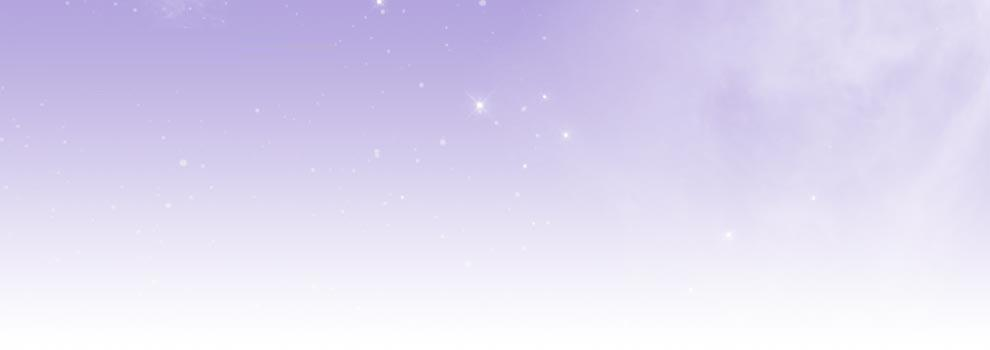
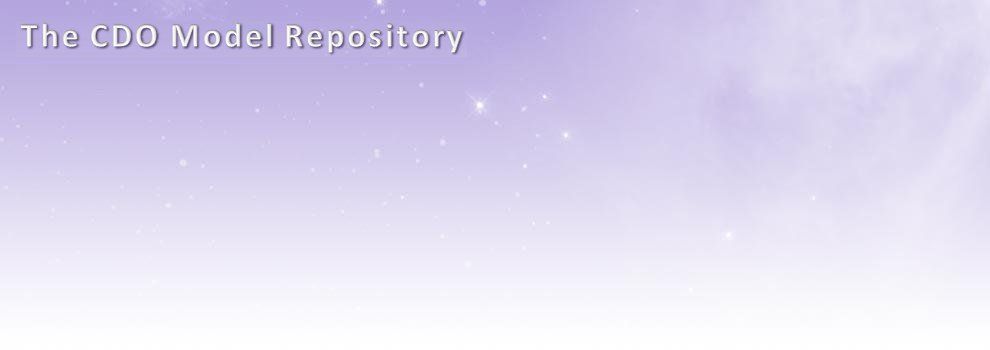
[154017] Create CDO homepage https://bugs.eclipse.org/bugs/show_bug.cgi?id=154017

Changed region(s): [[0.0, 0.0571, 0.4848, 0.1429]]

diff --git a/styles.css b/styles.css
@@ -3,7 +3,7 @@ body {
 }
 
 #novaContent{
-	background: #FFF url('Bild1.png') top left repeat-x;
+	background: #FFF url('background.jpg') top left repeat-x;
 }
 
 #fullcolumn {
